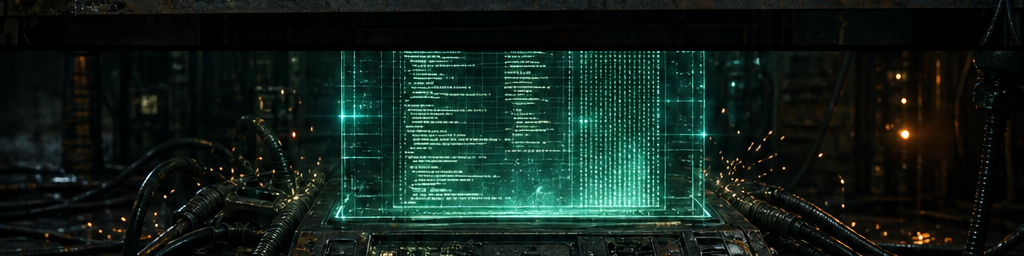
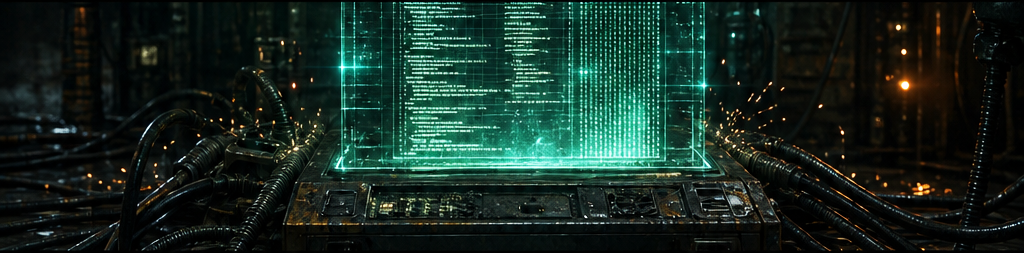
Build a full project page in `README.md`
Give new users one entry point for features, setup, operation, crates, and documentation. Add a prompt example, install and source commands, a Mermaid execution flow, section banners, and direct documentation links.

- The documented setup puts `ANTHROPIC_API_KEY` and `PROMPTFORGE_GATEWAY_KEY` on the gateway process, then directs the client through `PROMPTFORGE_GATEWAY_URL`.
- The example calls `models.always`, assigns `var.greeting`, and reads it through `{{ var.greeting }}`.
- `README.md` references `images/promptforge-portrait.png`, but the diff does not add or update that image.

diff --git a/README.md b/README.md
@@ -1,11 +1,105 @@
-# PromptForge
-
 [![CI](https://github.com/cppalliance/promptforge/actions/workflows/ci.yml/badge.svg)](https://github.com/cppalliance/promptforge/actions/workflows/ci.yml)
 [![Crates.io](https://img.shields.io/crates/v/promptforge-cli.svg)](https://crates.io/crates/promptforge-cli)
 [![License](https://img.shields.io/badge/license-BSL--1.0-blue.svg)](LICENSE)
 [![Rust](https://img.shields.io/badge/rust-1.89%2B-orange.svg)](https://www.rust-lang.org/)
 
+# PromptForge
+
 A runtime that executes AI prompt pipelines defined in a single markdown file. The markdown is the program, the model is the CPU. YAML frontmatter for metadata, embedded Lua for logic, prose blocks for model instructions, and a credential-holding gateway that keeps vendor keys off the prompt process. Write a prompt, run it, get a result.
+
+![Workbench](images/banner-01.png)
+
+## What you get
+
+- 📄 **Markdown prompts** - frontmatter, one H1, H2 sections that run top to bottom
+- 🔧 **Lua control** - bind tools and models, compute values, write the store, fan out work
+- 🌐 **Tools that ship** - local `web_fetch`, gateway-backed `web_search`, semantic capability binding
+- 🔌 **Inference gateway** - OpenAI-shaped chat, bearer auth, catalog at `GET /v1/models`
+- 🛰 **MCP server** - run prompts from an agentic harness over streamable HTTP or stdio
+
+![Android heads](images/banner-02.png)
+
+## Quick example
+
+````markdown
+---
+name: greet
+description: Greet the named input using a Lua-computed value
+promptforge: 1
+---
+
+# Greet
+
+```lua
+models.always("writer", "A model suited for careful analysis, coding, and general assistance")
+```
+
+## Main
+
+```lua
+var.greeting = "Hello, " .. args .. "!"
+```
+
+Repeat exactly, with no extra words: {{ var.greeting }}
+````
+
+Prose goes to the model. Lua sets up the turn. The response is the run's result.
+
+![Holographic code](images/banner-03.png)
+
+## Quick start
+
+```bash
+cargo install promptforge-cli promptforge-gateway
+promptforge-gateway serve gateway.toml &
+promptforge run prompts/hello.md
+```
+
+Building from source:
+
+```bash
+git clone git@github.com:cppalliance/promptforge.git
+cd promptforge
+cargo build
+```
+
+The first build downloads the tool picker's embedding model (~130MB from Hugging Face, pinned and checksummed). Later builds reuse the cache.
+
+Two processes: the gateway holds the vendor credential; the client points at it.
+
+```bash
+export ANTHROPIC_API_KEY=sk-ant-...
+export PROMPTFORGE_GATEWAY_KEY=dev-secret
+cargo run -p promptforge-gateway -- serve gateway.toml &
+
+export PROMPTFORGE_GATEWAY_URL=http://127.0.0.1:8081/v1
+cargo run -p promptforge-cli -- run prompts/hello.md
+```
+
+Interactive prompt work against an already-running gateway:
+
+```bash
+cargo run -p promptforge-dev -- prompts/greet.md "world" --watch
+```
+
+![Gloves and sparks](images/banner-04.png)
+
+## How it works
+
+Parse a promptforge markdown file, bind the tools and models it needs, then execute each H2 section in order. Section Lua prepares state; prose becomes a model turn (with a tool loop when tools are in scope); results land in the store or become the run output.
+
+```mermaid
+flowchart LR
+  MD[Markdown prompt] --> Parse[Parse and bind]
+  Parse --> Sec[H2 sections]
+  Sec --> Lua[Lua prologue]
+  Lua --> Model[Model turn]
+  Model --> Tools[Tools via gateway or local]
+  Model --> Store[Store artifacts]
+  Store --> Out[Run result]
+```
+
+![Robot internals](images/banner-05.png)
 
 ## Crates
 
@@ -19,17 +113,14 @@ A runtime that executes AI prompt pipelines defined in a single markdown file. T
 | [promptforge-webfetch](crates/promptforge-webfetch) | SSRF-safe web fetch tool for model-supplied URLs | [![Crates.io](https://img.shields.io/crates/v/promptforge-webfetch.svg)](https://crates.io/crates/promptforge-webfetch) |
 | [promptforge-dev](crates/promptforge-dev) | Interactive prompt development with watch mode | [![Crates.io](https://img.shields.io/crates/v/promptforge-dev.svg)](https://crates.io/crates/promptforge-dev) |
 
-## Quick Start
-
-```bash
-cargo install promptforge-cli promptforge-gateway
-promptforge-gateway serve gateway.toml &
-promptforge run prompts/hello.md
-```
-
 ## Documentation
 
-See the [PromptForge User Guide](https://cppalliance.github.io/promptforge/) for full documentation.
+- [PromptForge User Guide](https://cppalliance.github.io/promptforge/) - full documentation
+- [User Guide source](user-guide.md) - progressive tutorial for writing prompts
+- [DEVELOPMENT.md](DEVELOPMENT.md) - gateway config, store API, architecture, dev workflow
+- [design-core.md](crates/promptforge-core/design-core.md) - core design notes
+
+![Filing cabinets](images/banner-06.png)
 
 ## Minimum Rust Version
 
@@ -38,6 +129,8 @@ Rust 1.89 or later.
 ## Contributing
 
 Build, format, and test before you open a PR. CI runs `cargo fmt --check`, `clippy -D warnings`, and `cargo test --workspace`. See [DEVELOPMENT.md](DEVELOPMENT.md) for details.
+
+![Creator](images/promptforge-portrait.png)
 
 ## License
 

diff --git a/vibe/individual-commits.md b/vibe/individual-commits.md
@@ -38,3 +38,5 @@
 
 ## 2026-08-10 Rebuild promptforge-core around a validated bounded API
 
+## 2026-08-12 Expand README into a full project page with banners
+
